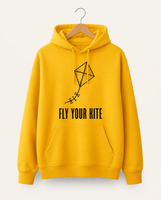
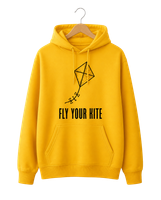
Remove the card frame around hanging hoodies
Dropped the bordered/box-shadowed card look from .rack-thumb and
.lightbox-media so garments hang freely off the hook instead of
sitting in a square card. Also stripped the white studio background
from each hoodie photo (Canva background removal) so there's no
longer a faint white box behind the garment either - just the
hoodie and its drop shadow on hover.

Claude-Session: https://claude.ai/code/session_01ByFMHKtb2Ee8sWWhmh3Wnq

Changed region(s): [[0.1553, 0.84, 0.8696, 0.96], [0.8696, 0.87, 0.9006, 0.9]]

diff --git a/styles.css b/styles.css
@@ -625,18 +625,13 @@ a { color: inherit; text-decoration: none; }
 .rack-thumb {
   display: block;
   aspect-ratio: 4 / 5;
-  border-radius: 12px;
-  border: var(--border-w) solid var(--ink);
-  box-shadow: 4px 4px 0 var(--ink);
-  overflow: hidden;
-  background: var(--cream);
-  transition: transform 0.22s ease, box-shadow 0.22s ease;
+  transition: transform 0.22s ease, filter 0.22s ease;
 }
-.rack-thumb img { width: 100%; height: 100%; object-fit: cover; display: block; }
+.rack-thumb img { width: 100%; height: 100%; object-fit: contain; display: block; }
 .rack-item:hover .rack-thumb,
 .rack-item:focus-visible .rack-thumb {
-  transform: translate(-3px,-3px) rotate(-2deg);
-  box-shadow: 7px 7px 0 var(--ink);
+  transform: translateY(-4px) scale(1.03);
+  filter: drop-shadow(0 10px 14px rgba(22,21,15,0.22));
 }
 .rack-info {
   display: flex;
@@ -754,11 +749,11 @@ a { color: inherit; text-decoration: none; }
 }
 .lightbox-media {
   width: 100%;
-  border-radius: 14px;
   margin: 2px 0 0;
-  border: var(--border-w) solid var(--ink);
-  box-shadow: 5px 5px 0 var(--ink);
+  background: none;
+  border-bottom: none;
 }
+.lightbox-media img { object-fit: contain; }
 .lightbox-slides { position: absolute; inset: 0; }
 .lightbox-info {
   flex: 1;
